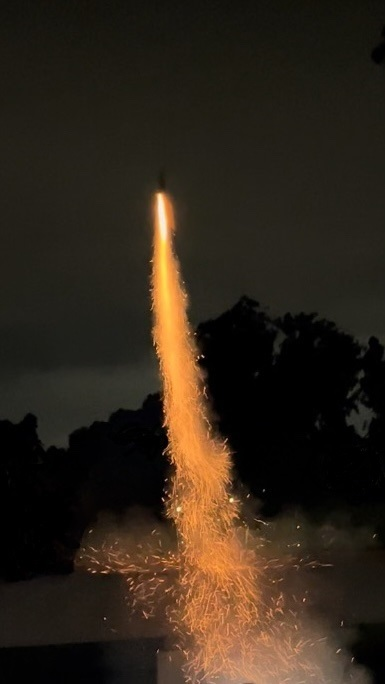
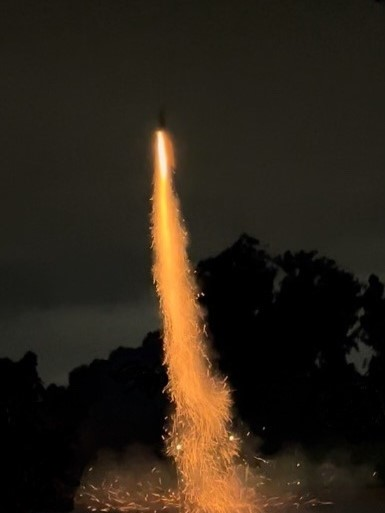
2

Changed region(s): [[0.0, 0.3743, 1.0, 1.0], [0.374, 0.2495, 0.4675, 0.3431], [0.9662, 0.0312, 1.0, 0.0936]]

diff --git a/currentprojects.html b/currentprojects.html
@@ -309,34 +309,15 @@
     </h3>
 
     <div class="columnright">
-      <img src="https://raw.githubusercontent.com/peterh20/peterh20.github.io/master/assets/rocket10.JPG" alt="temp"
+      <img src="https://raw.githubusercontent.com/peterh20/peterh20.github.io/master/assets/rocket9.png" alt="temp"
         class="image" style="width:100%">
       <br>
-      <img src="https://raw.githubusercontent.com/peterh20/peterh20.github.io/master/assets/rocket9.JPG" alt="temp"
-        class="image" style="width:100%">
-      <br>
-      <img src="https://raw.githubusercontent.com/peterh20/peterh20.github.io/master/assets/rocket4.JPG" alt="temp"
-        class="image" style="width:100%">
-      <br>
-      <img src="https://raw.githubusercontent.com/peterh20/peterh20.github.io/master/assets/rocket7.png" alt="temp"
-        class="image" style="width:100%">
-      <br>
-      <img src="https://raw.githubusercontent.com/peterh20/peterh20.github.io/master/assets/rocket5.JPG" alt="temp"
-        class="image" style="width:100%">
-      <br>
-      <img src="https://raw.githubusercontent.com/peterh20/peterh20.github.io/master/assets/rocket3.jpg" alt="temp"
-        class="image" style="width:100%">
-      <br>
-      <img src="https://raw.githubusercontent.com/peterh20/peterh20.github.io/master/assets/rocket6.JPG" alt="temp"
-        class="image" style="width:100%">
-      <br>
-      <img src="https://raw.githubusercontent.com/peterh20/peterh20.github.io/master/assets/rocket1.jpg" alt="temp"
-        class="image" style="width:100%">
     </div>
+
 
     <div class="columnleft">
 
-      <iframe width="100%" height="500px" src="https://www.youtube.com/embed/4BIsJHZqfUY?si=q6Mlp3u40CuD4e09"
+      <iframe width="100%" height="400px" src="https://www.youtube.com/embed/4BIsJHZqfUY?si=q6Mlp3u40CuD4e09"
         title="YouTube video player" frameborder="0" allow="accelerometer; autoplay; clipboard-write; encrypted-media; 
       gyroscope; picture-in-picture; web-share" referrerpolicy="strict-origin-when-cross-origin"
         allowfullscreen></iframe>
@@ -361,6 +342,107 @@
   </div>
 
 
+  <div class="white containter-fluid"></div>
+    <div class="twoimages container-fluid text-center">
+      <div class="imagerow">
+        <img src="https://raw.githubusercontent.com/peterh20/peterh20.github.io/master/assets/rocketgif.gif"
+                alt="temp" class="image" style="width:100%">
+      </div>
+    </div>
+  </div>
+
+
+
+
+  <div class="white containter-fluid">
+    <div class="twoimages container-fluid text-center">
+      <div class="imagerow">
+        <h3>
+
+        </h3>
+        <div>
+          <div class="columnleft">
+            <div class="imagecontainer">
+              <img src="https://raw.githubusercontent.com/peterh20/peterh20.github.io/master/assets/rocket10.jpg"
+                alt="temp" class="image" style="width:100%">
+            </div>
+          </div>
+          <div class="columnright">
+            <div class="imagecontainer">
+              <img src="https://raw.githubusercontent.com/peterh20/peterh20.github.io/master/assets/rocket8.png"
+                alt="temp" class="image" style="width:100%">
+            </div>
+          </div>
+
+          <p>
+            <!--middle description-->
+
+          </p>
+        </div>
+      </div>
+    </div>
+  </div>
+
+  <div class="white containter-fluid">
+    <div class="twoimages container-fluid text-center">
+      <div class="imagerow">
+        <h3>
+
+        </h3>
+        <div>
+          <div class="columnleft">
+            <div class="imagecontainer">
+              <img src="https://raw.githubusercontent.com/peterh20/peterh20.github.io/master/assets/rocket4.JPG"
+                alt="temp" class="image" style="width:100%">
+            </div>
+          </div>
+
+          <div class="columnright">
+            <div class="imagecontainer">
+              <img src="https://raw.githubusercontent.com/peterh20/peterh20.github.io/master/assets/rocket3.jpg"
+                alt="temp" class="image" style="width:100%">
+            </div>
+          </div>
+
+          <p>
+            <!--middle description-->
+          </p>
+        </div>
+      </div>
+
+    </div>
+  </div>
+
+  <div class="white containter-fluid"></div>
+  <div class="twoimages container-fluid text-center">
+    <div class="imagerow">
+      <h3>
+
+      </h3>
+      <div>
+        <div class="columnleft">
+          <div class="imagecontainer">
+            <img src="https://raw.githubusercontent.com/peterh20/peterh20.github.io/master/assets/rocket5.JPG"
+              alt="temp" class="image" style="width:100%">
+          </div>
+        </div>
+
+        <div class="columnright">
+          <div class="imagecontainer">
+            <img src="https://raw.githubusercontent.com/peterh20/peterh20.github.io/master/assets/rocket6.JPG"
+              alt="temp" class="image" style="width:100%">
+          </div>
+        </div>
+
+        <p>
+          <!--middle description-->
+          <br><br><br><br><br><br><br>
+        </p>
+      </div>
+    </div>
+
+  </div>
+  </div>
 
 
 

diff --git a/astronomy.html b/astronomy.html
@@ -348,7 +348,7 @@
 
                     <div class="imagecolumn2">
                         <div class="imagecontainer">
-                            <img src="https://raw.githubusercontent.com/peterh20/peterh20.github.io/master/assets/holdmoon.JPG"
+                            <img src="https://raw.githubusercontent.com/peterh20/peterh20.github.io/master/assets/holdmoon.jpg"
                                 alt="lightning" class="image" style="width:100%">
                             <div class="imagetext">
                                 <p class="text2">"Holding the moon"</p>
